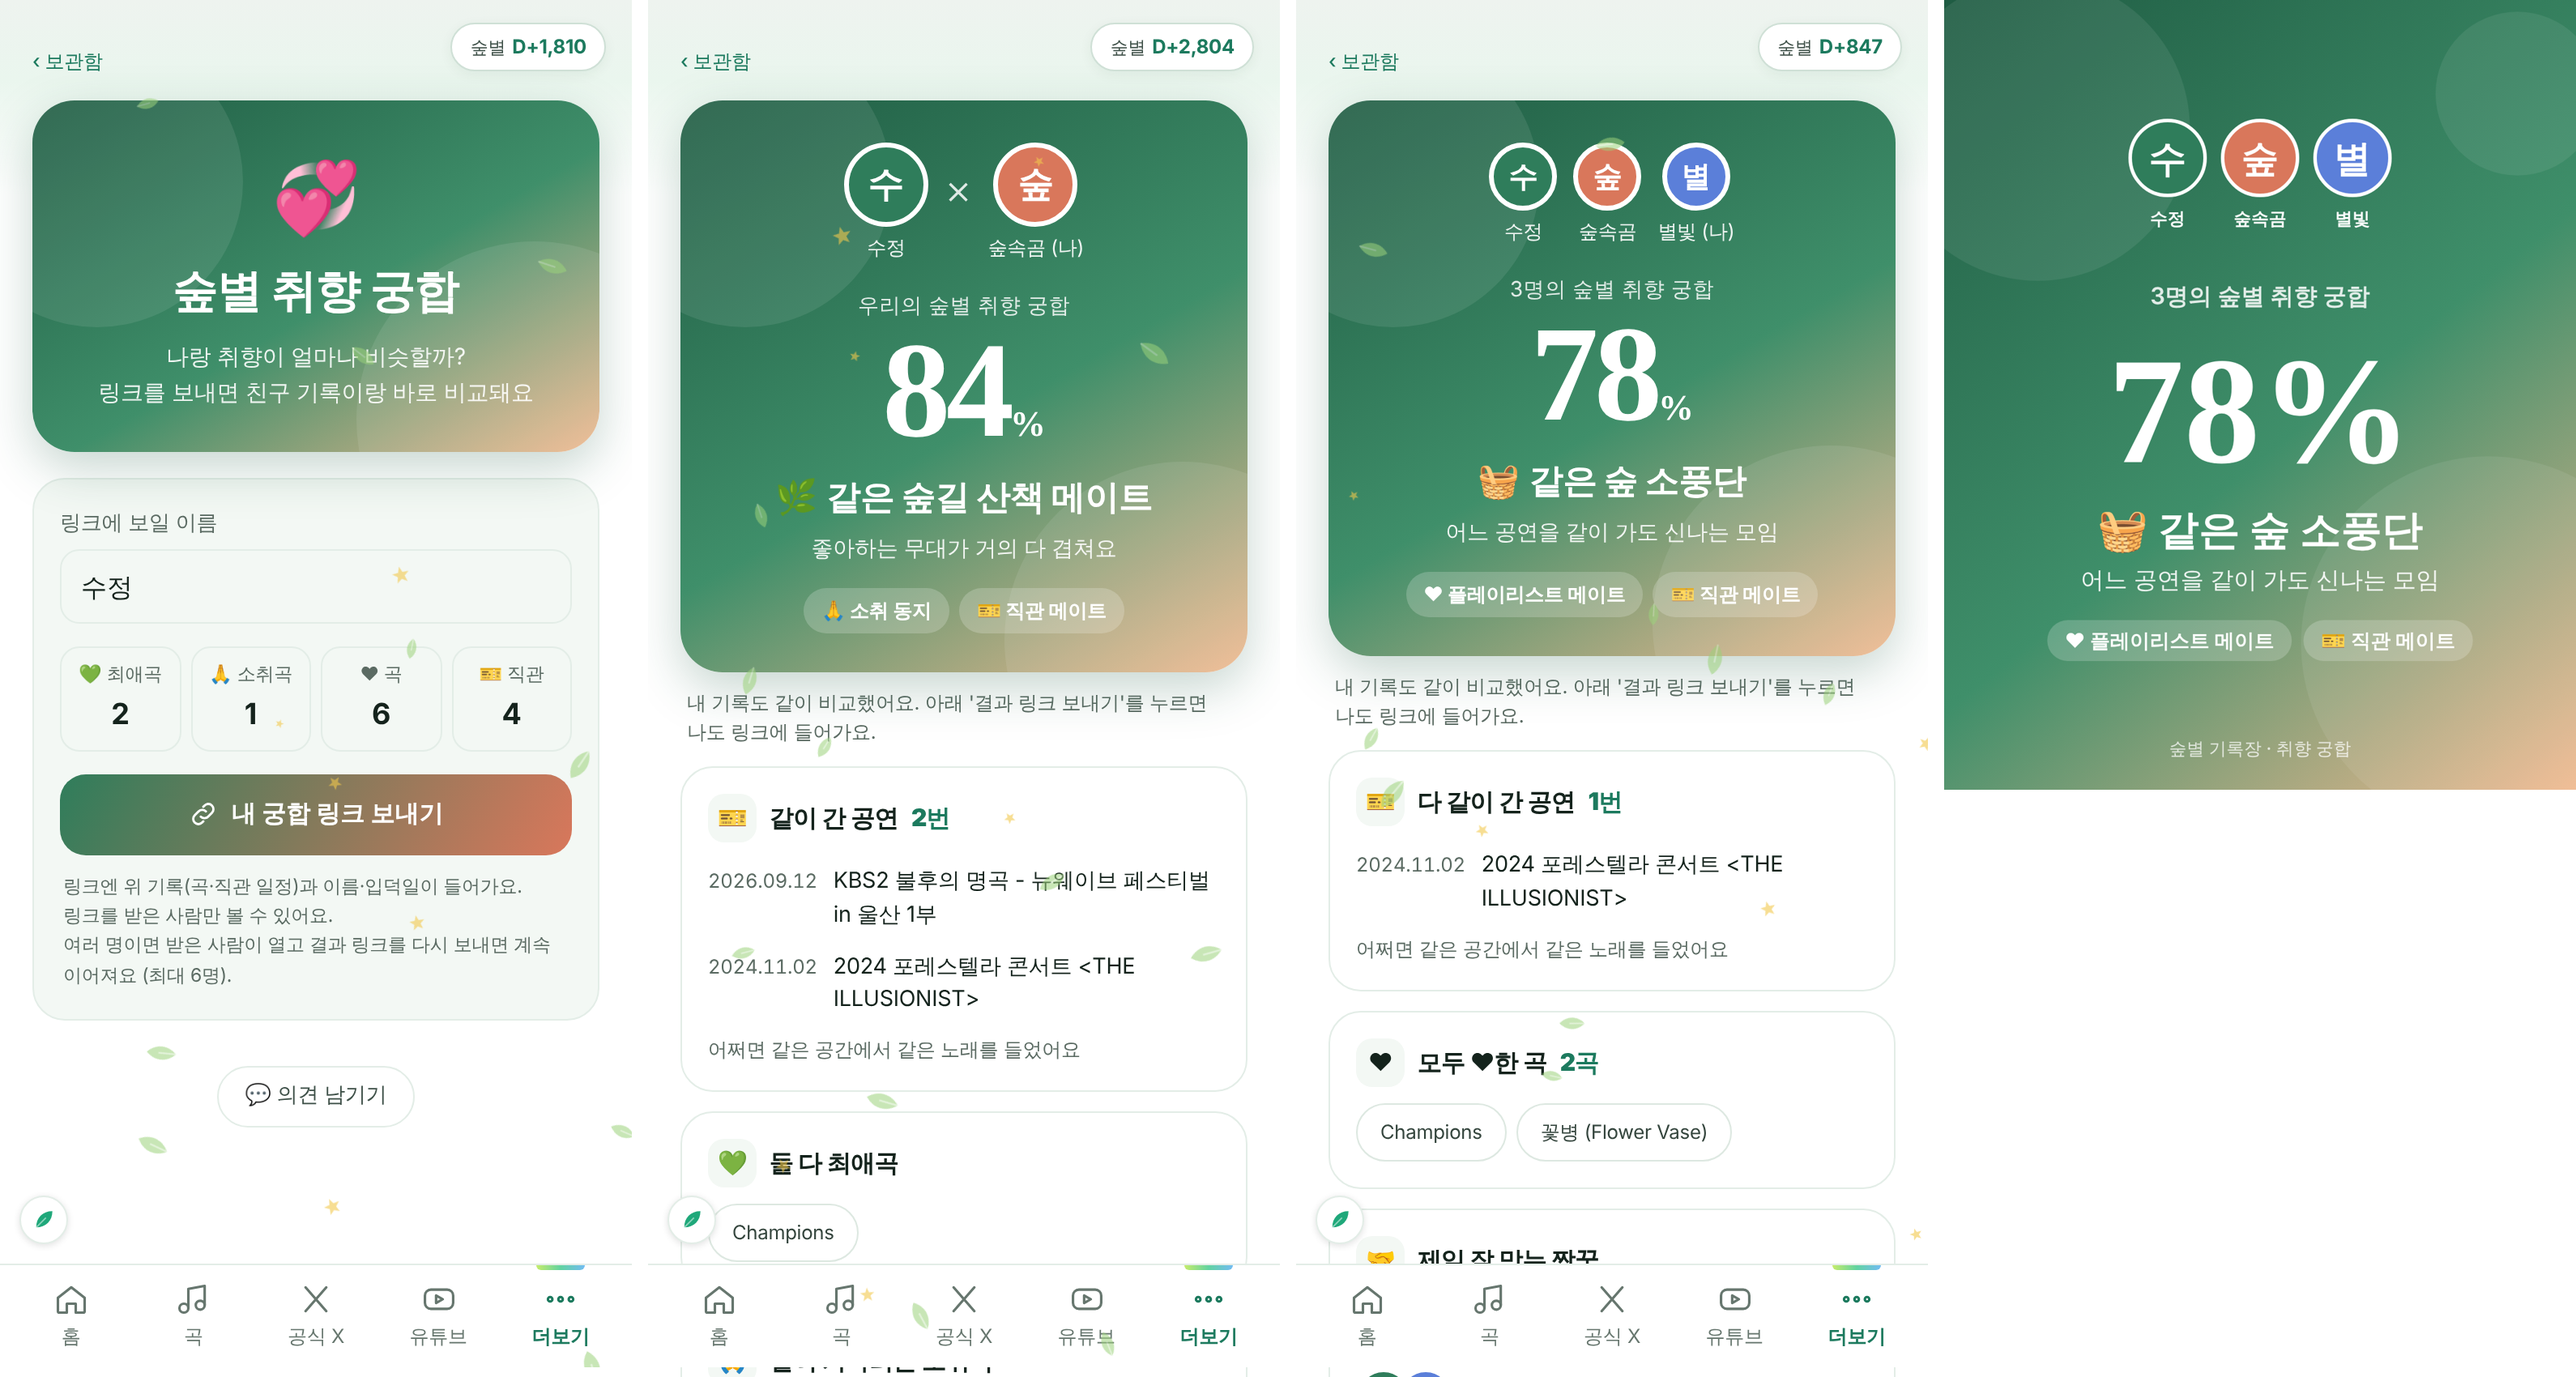
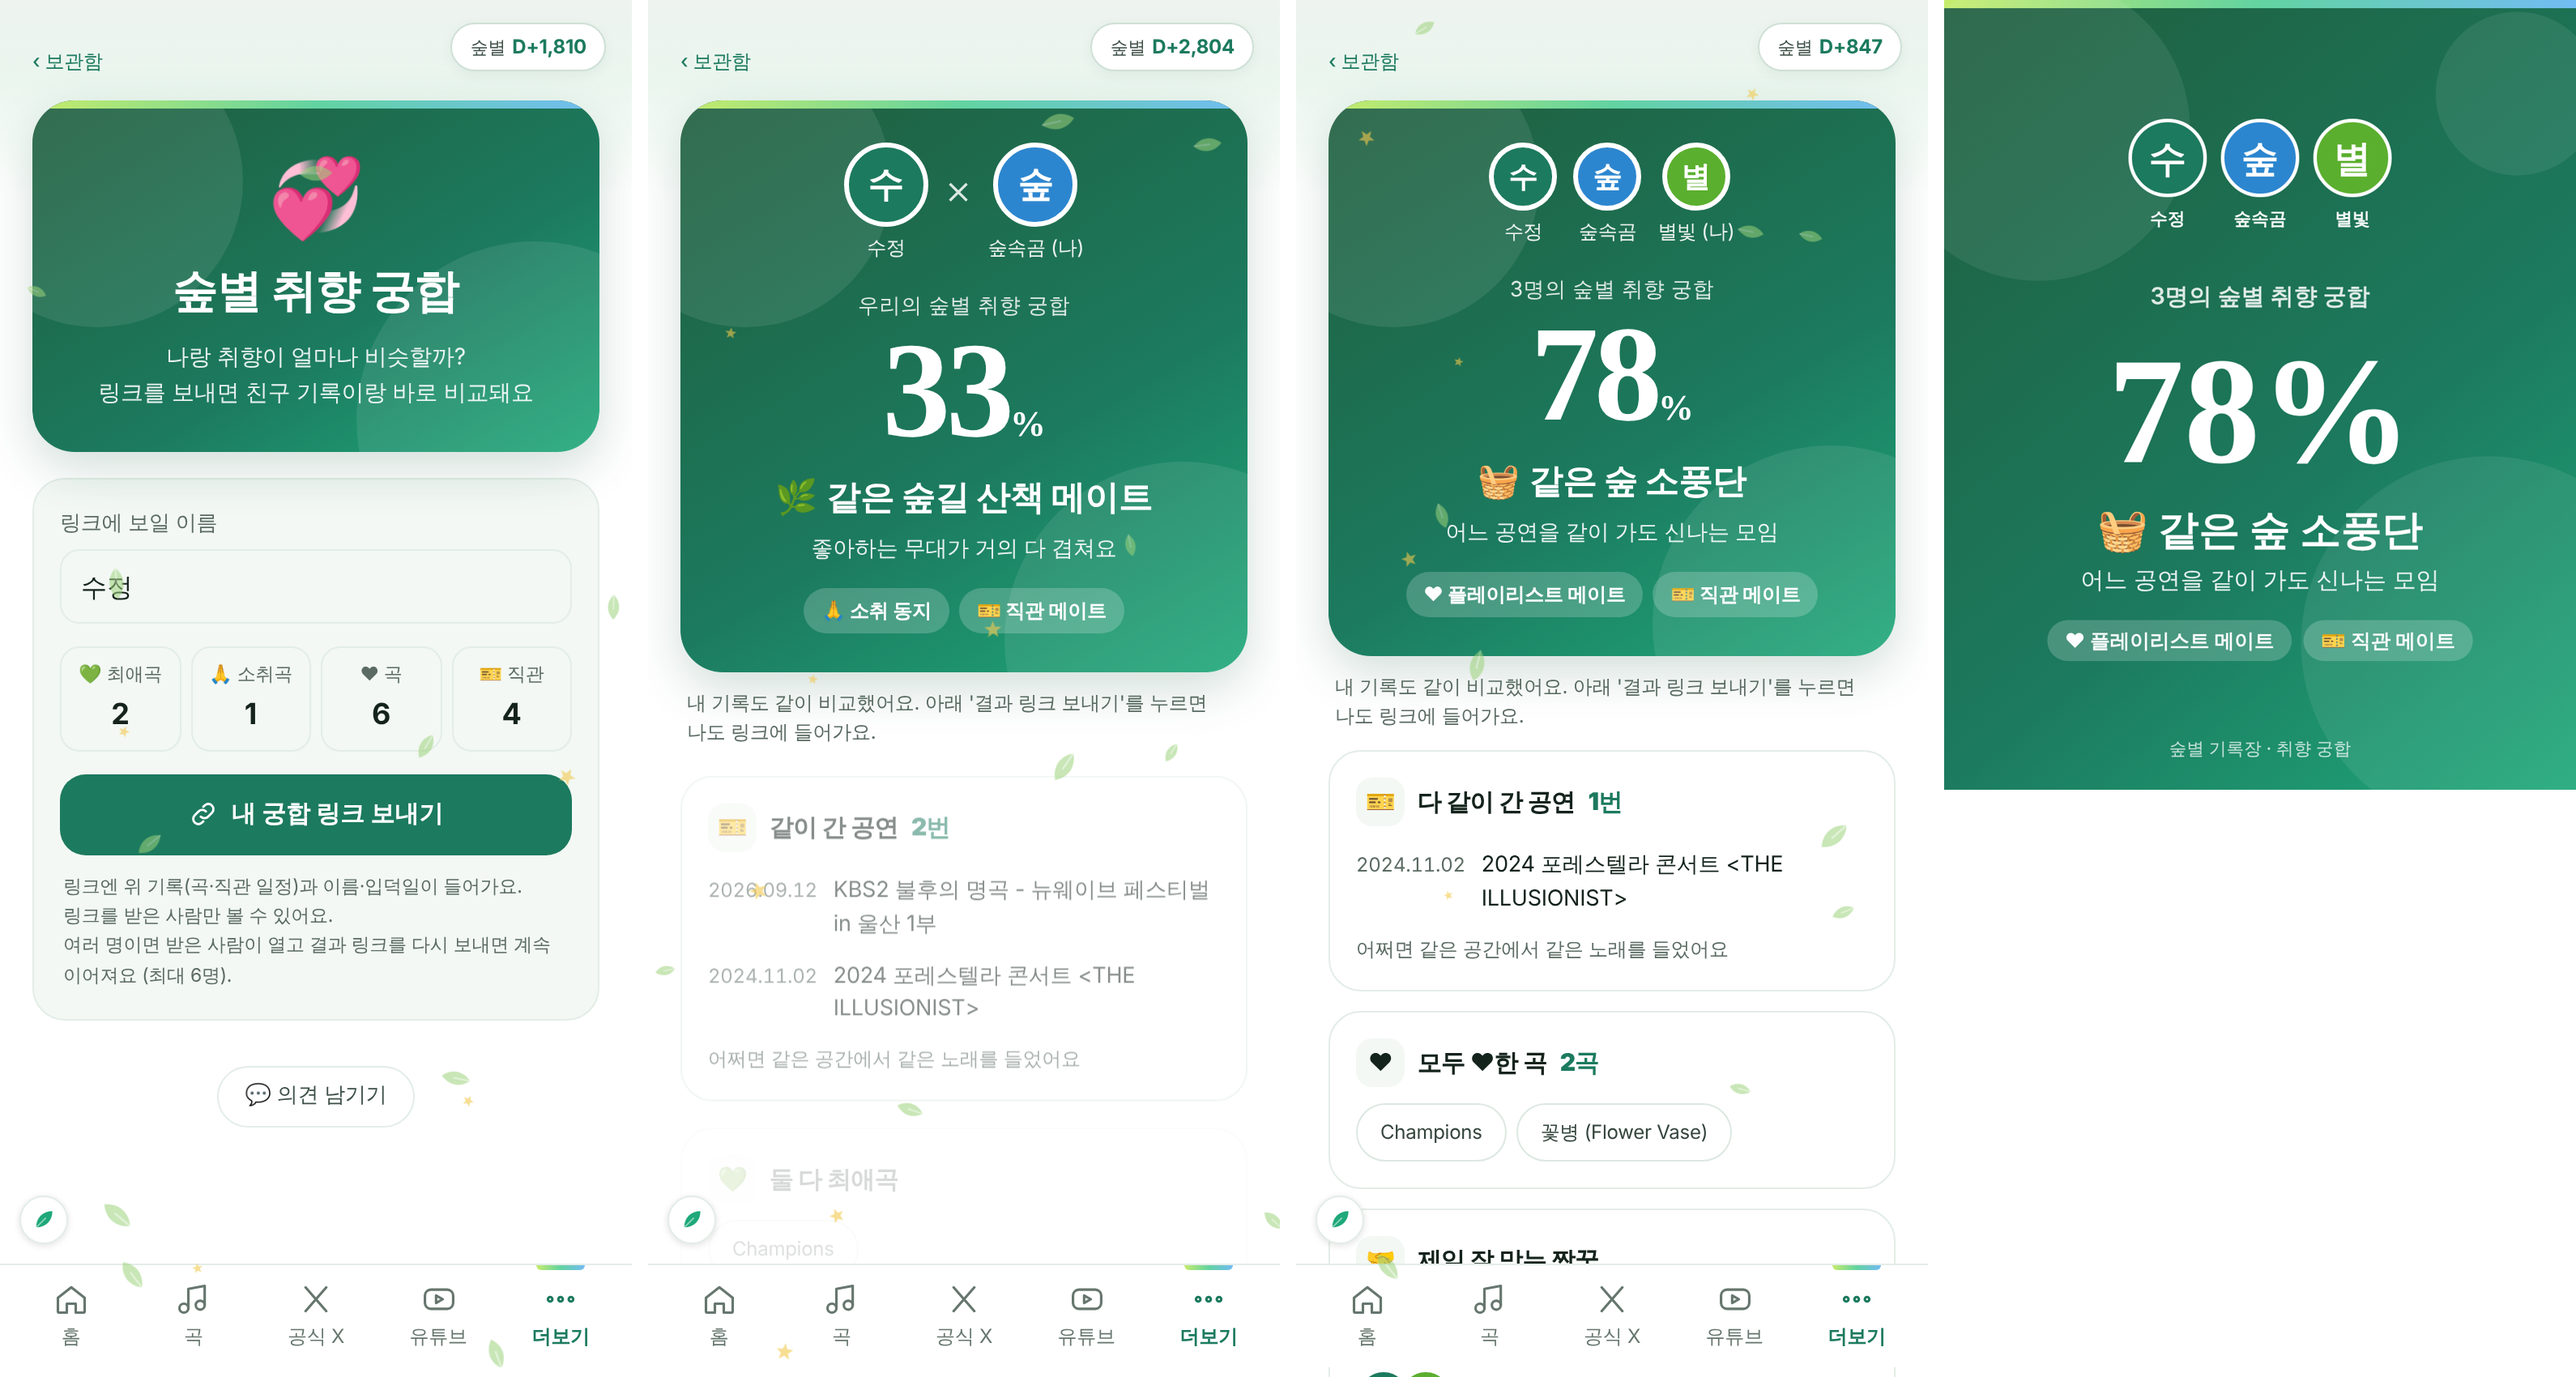
v589: 숲별 취향 궁합(#/match) — 관리자 기기에서만 열림, 사이트 초록 톤으로 색 맞춤
Claude-Session: https://claude.ai/code/session_01MGTh9zKioiZsMkgnkSk7j5

diff --git a/app.js b/app.js
@@ -4357,7 +4357,7 @@
           ${WAIT_ON() ? item('#/wait', '<circle cx="12" cy="13" r="8"/><path d="M12 9v4l2.5 2.5M9 2.5h6"/>', '기다리는 일정', goIds().length ? String(goIds().length) : '') : ''}
           ${item('#/card', '<rect x="4" y="3" width="16" height="18" rx="2.5"/><path d="M8 8h8M8 12h5M4 15.5h16" stroke-dasharray="2 2"/>', '숲별 카드')}
           ${item('#/map', '<path d="M9 4 3 6v14l6-2 6 2 6-2V4l-6 2z"/><path d="M9 4v14M15 6v14"/>', '숲별 발자국')}
-          ${item('#/match', '<circle cx="9" cy="12" r="5.5"/><circle cx="15" cy="12" r="5.5"/>', '취향 궁합')}`)}
+          ${isAdmin() ? item('#/match', '<circle cx="9" cy="12" r="5.5"/><circle cx="15" cy="12" r="5.5"/>', '취향 궁합') : ''}`)}
         ${grp('아카이브', `
           ${item('#/concerts', '<path d="M9 18V5l11-2v13"/><circle cx="6" cy="18" r="3"/><circle cx="17" cy="16" r="3"/>', '콘서트')}
           ${item('#/local', '<path d="M12 21s-7-6.2-7-11.5A7 7 0 0 1 19 9.5C19 14.8 12 21 12 21z"/><circle cx="12" cy="9.5" r="2.5"/>', '공연·행사')}
@@ -5144,7 +5144,7 @@
   const MT_TYPES = [[95, '🌲🌲', '포레 취향 쌍둥이', '플레이리스트를 바꿔 들어도 모를 사이예요'], [80, '🌿', '같은 숲길 산책 메이트', '좋아하는 무대가 거의 다 겹쳐요'], [65, '🌳', '옆 나무 이웃', '반은 같고 반은 서로 추천해 주기 좋은 사이'], [50, '🧭', '서로의 숲 가이드', '서로 모르는 명곡을 알려 줄 수 있어요'], [0, '🔭', '다른 숲의 탐험가', '취향이 달라서 덕질이 두 배로 넓어져요']];
   const MT_GROUP = [[90, '🌲', '한 그루 숲', '이 모임은 사실 한 사람이에요'], [75, '🧺', '같은 숲 소풍단', '어느 공연을 같이 가도 신나는 모임'], [60, '🎶', '숲속 합창단', '떼창 맞추기 딱 좋은 조합이에요'], [45, '🗺', '각자 다른 숲길 원정대', '서로의 최애곡을 돌려 듣기 좋아요'], [0, '🔬', '숲 다양성 연구회', '취향이 다 달라서 이야기할 게 많아요']];
   const mtType = (pct, group) => (group ? MT_GROUP : MT_TYPES).find(t => pct >= t[0]);
-  const MT_COL = ['#2f7d5b', '#d9775b', '#5b7fd9', '#b65bd9', '#d9b35b', '#5bb8c9'];
+  const MT_COL = ['#1C7A5E', '#2C86CF', '#5BAF2E', '#1FA87A', '#24513A', '#2C5A8A'];
   const mtAv = (p, i) => `<span class="mt-av" style="background:${MT_COL[i % 6]}">${esc([...p.n][0] || '?')}</span>`;
   const mtLink = list => location.origin + location.pathname + '#/match?d=' + mtB64(JSON.stringify(list));
   function mtCalc(list) {
@@ -5158,6 +5158,7 @@
     return { pairs, pct, all, cnt, tags };
   }
   function matchView() {
+    if (!isAdmin()) return `<a class="back" href="#/more">‹ 더보기</a><p class="empty">준비 중인 화면이에요.</p>`;
     const q = new URLSearchParams(location.hash.split('?')[1] || ''), me = mtMe(), mine = !mtEmpty(me);
     const got = ((q.get('d') && mtUn(q.get('d'))) || []).filter(p => p && typeof p.n === 'string').slice(0, MT_MAX)
       .map(p => ({ n: String(p.n).slice(0, 12), s: /^\d{4}-\d\d-\d\d$/.test(p.s) ? p.s : '', u: String(p.u || ''), ...Object.fromEntries(['f', 'w', 'h', 'g', 'm'].map(k => [k, Array.isArray(p[k]) ? p[k].map(String) : []])) }));
@@ -5171,7 +5172,7 @@
       const from = got[0];
       return `${back}
         <section class="mt-intro">
-          <div class="mt-hero mt-hero-in"><span class="mt-spark">💞</span><h1>숲별 취향 궁합</h1><p>나랑 취향이 얼마나 비슷할까?<br>링크를 보내면 친구 기록이랑 바로 비교돼요</p></div>
+          <div class="mt-hero mt-hero-in"><i class="mt-stripe"></i><span class="mt-spark">💞</span><h1>숲별 취향 궁합</h1><p>나랑 취향이 얼마나 비슷할까?<br>링크를 보내면 친구 기록이랑 바로 비교돼요</p></div>
           ${from ? `<p class="mt-from">${mtAv(from, 0)} <b>${esc(from.n)}</b> 님이 궁합 링크를 보냈어요. 내 기록이 있어야 비교할 수 있어요.</p>` : ''}
           ${mine ? `
             <div class="mt-mine">
@@ -5208,7 +5209,7 @@
     const add = inList < 0 && mine && meAt < 0 && got.length >= MT_MAX;
     return `${back}
       <section class="mt-res${group ? ' mt-g' : ''}">
-        <div class="mt-hero">
+        <div class="mt-hero"><i class="mt-stripe"></i>
           <div class="mt-avs">${list.map((p, i) => `<span class="mt-pp">${mtAv(p, i)}<small>${esc(p.n)}${i === meAt ? ' (나)' : ''}</small></span>`).join(group ? '' : '<span class="mt-x">×</span>')}</div>
           <p class="mt-lab">${group ? `${list.length}명의` : '우리의'} 숲별 취향 궁합</p>
           <p class="mt-pct"><b id="mt-num" data-n="${R.pct}">${R.pct}</b>%</p>
@@ -5250,8 +5251,9 @@
     const R = mtCalc(mtList), group = mtList.length > 2, T = mtType(R.pct, group);
     const cv = document.createElement('canvas'); cv.width = 1080; cv.height = 1350; const c = cv.getContext('2d');
     try { await Promise.race([document.fonts.load('800 60px "Nanum Myeongjo"'), new Promise(r => setTimeout(r, 1500))]); } catch (err) { /* 기본 글씨 */ }
-    const g = c.createLinearGradient(0, 0, 1080, 1350); g.addColorStop(0, '#1f5c43'); g.addColorStop(0.55, '#3f8f6a'); g.addColorStop(1, '#f0b98f');
+    const g = c.createLinearGradient(0, 0, 1080, 1350); g.addColorStop(0, '#1F5E3E'); g.addColorStop(0.6, '#1C7A5E'); g.addColorStop(1, '#1FA87A');
     c.fillStyle = g; c.fillRect(0, 0, 1080, 1350);
+    const st = c.createLinearGradient(0, 0, 1080, 0); st.addColorStop(0, '#C6EC6B'); st.addColorStop(0.5, '#62D3A1'); st.addColorStop(1, '#72BCF3'); c.fillStyle = st; c.fillRect(0, 0, 1080, 14);
     c.fillStyle = 'rgba(255,255,255,.08)'; [[160, 220, 260], [930, 1100, 320], [980, 160, 140]].forEach(([x, y, r]) => { c.beginPath(); c.arc(x, y, r, 0, 7); c.fill(); });
     const SANS = CARD_SANS; c.textAlign = 'center'; c.fillStyle = '#fff';
     const n = mtList.length, r = n > 4 ? 52 : 64, gap = r * 2 + (n > 2 ? 30 : 110), x0 = 540 - (n - 1) * gap / 2;

diff --git a/style.css b/style.css
@@ -1940,7 +1940,9 @@ a.wt-yes { display: flex; align-items: center; text-decoration: none; }
 .today-bar b { font-weight: 500; color: var(--ink); }
 
 /* 숲별 취향 궁합 (#/match) */
-.mt-hero { position: relative; overflow: hidden; border-radius: 26px; padding: 26px 18px 24px; text-align: center; color: #fff; background: linear-gradient(150deg, #1f5c43 0%, #3f8f6a 55%, #f0b98f 100%); box-shadow: 0 10px 30px rgba(31, 92, 67, .25); }
+.mt-hero { position: relative; overflow: hidden; border-radius: 26px; padding: 26px 18px 24px; text-align: center; color: #fff; background: linear-gradient(150deg, var(--green-dd) 0%, var(--green) 60%, var(--green-2) 100%); box-shadow: 0 10px 30px rgba(31, 92, 67, .2); border-top: 0; }
+.mt-hero { background-clip: padding-box; }
+.mt-hero > .mt-stripe { position: absolute; left: 0; right: 0; top: 0; height: 5px; background: var(--grad); }
 .mt-hero::before, .mt-hero::after { content: ''; position: absolute; border-radius: 50%; background: rgba(255, 255, 255, .09); }
 .mt-hero::before { width: 180px; height: 180px; left: -50px; top: -40px; }
 .mt-hero::after { width: 220px; height: 220px; right: -70px; bottom: -90px; }
@@ -1957,7 +1959,7 @@ a.wt-yes { display: flex; align-items: center; text-decoration: none; }
 .mt-incl { list-style: none; display: grid; grid-template-columns: repeat(4, 1fr); gap: 6px; padding: 0; margin: 14px 0; }
 .mt-incl li { text-align: center; font-size: 11.5px; color: var(--muted); padding: 8px 2px; border-radius: 12px; border: 1px solid var(--line); }
 .mt-incl b { display: block; font-size: 18px; color: var(--ink); margin-top: 2px; }
-.mt-go { display: flex; align-items: center; justify-content: center; gap: 8px; width: 100%; min-height: 50px; border: 0; border-radius: 16px; font: inherit; font-size: 15px; font-weight: 700; color: #fff; background: linear-gradient(120deg, #2f7d5b, #d9775b); cursor: pointer; }
+.mt-go { display: flex; align-items: center; justify-content: center; gap: 8px; width: 100%; min-height: 50px; border: 0; border-radius: 16px; font: inherit; font-size: 15px; font-weight: 700; color: #fff; background: var(--green); cursor: pointer; }
 .mt-go svg, .mt-sub-btn svg { width: 19px; height: 19px; fill: none; stroke: currentColor; stroke-width: 1.8; stroke-linecap: round; stroke-linejoin: round; }
 .mt-note { font-size: 11.5px; color: var(--muted); line-height: 1.6; margin: 10px 2px 0; }
 .mt-avs { display: flex; justify-content: center; align-items: flex-start; gap: 10px; flex-wrap: wrap; }

diff --git a/index.html b/index.html
@@ -23,7 +23,7 @@
 <link href="https://fonts.googleapis.com/css2?family=Gowun+Batang:wght@400;700&display=swap" rel="stylesheet">
 <link rel="stylesheet" href="https://cdn.jsdelivr.net/gh/orioncactus/pretendard@v1.3.9/dist/web/variable/pretendardvariable-dynamic-subset.min.css">
 <script>try{var d=JSON.parse(localStorage.getItem('sb-deco')||'{}');if(d.t)document.documentElement.dataset.theme=d.t;if(d.f)document.documentElement.dataset.fs=d.f}catch(e){}</script>
-<link rel="stylesheet" href="style.css?v=588">
+<link rel="stylesheet" href="style.css?v=589">
 </head>
 <body>
 <div class="app">
@@ -46,9 +46,9 @@
 <!-- 방문자 수 (GoatCounter: 쿠키·개인정보 없이 화면별 방문 수만 세요) -->
 <script data-goatcounter="https://soopbyeol.goatcounter.com/count" data-goatcounter-settings='{"no_onload": true}' async src="https://gc.zgo.at/count.js"></script>
 <script src="lib/fuse.min.js"></script>
-<script src="i18n.js?v=588"></script>
-<script src="config.js?v=588"></script>
-<script src="data.js?v=588"></script>
-<script src="app.js?v=588"></script>
+<script src="i18n.js?v=589"></script>
+<script src="config.js?v=589"></script>
+<script src="data.js?v=589"></script>
+<script src="app.js?v=589"></script>
 </body>
 </html>

diff --git a/sw.js b/sw.js
@@ -1,6 +1,6 @@
 // 한 번 연 화면 파일을 저장해 두고, 다음부터 빨리 열거나 인터넷이 없을 때 써요.
 // 시트 데이터는 data.js가 따로 저장하니까 여기서는 사이트 파일만 다뤄요.
-const CACHE = 'soopbyeol-v588';
+const CACHE = 'soopbyeol-v589';
 const SHELL = ['./', 'index.html', 'style.css?v=162', 'config.js?v=162', 'data.js?v=162', 'app.js?v=162', 'lib/fuse.min.js', 'manifest.webmanifest', 'icons/icon-192.png'];
 
 self.addEventListener('install', ev => {
